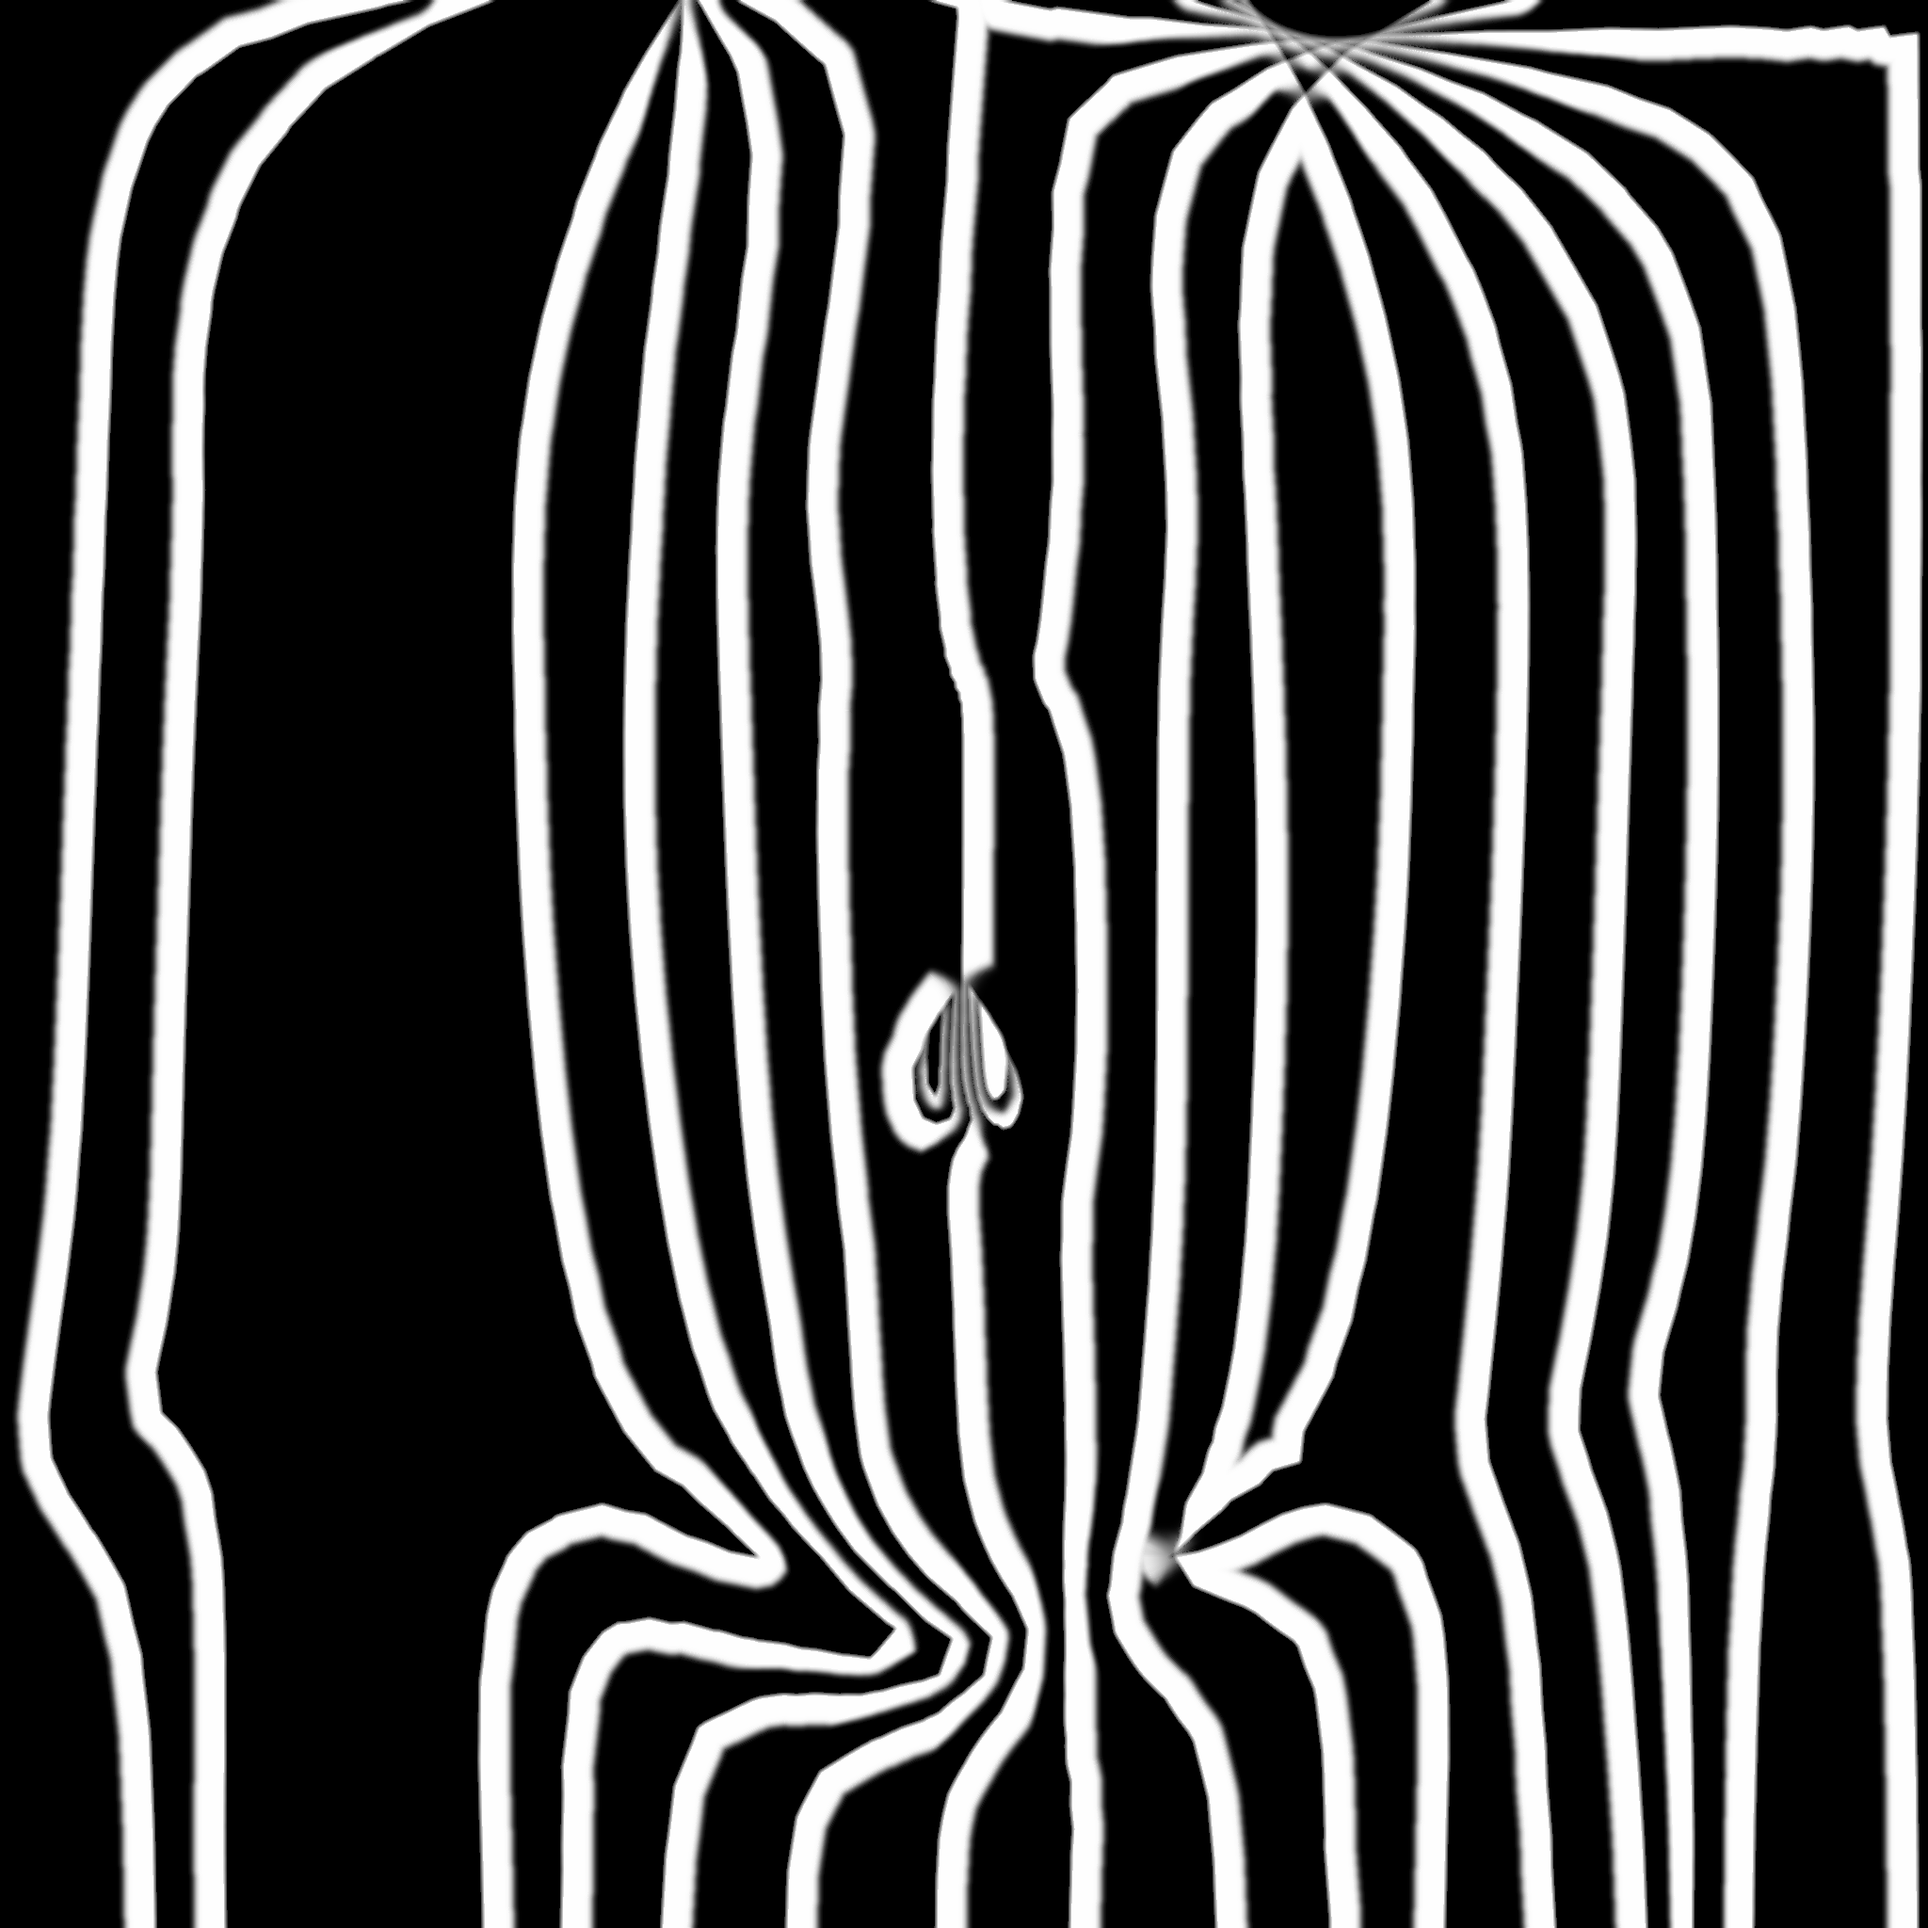
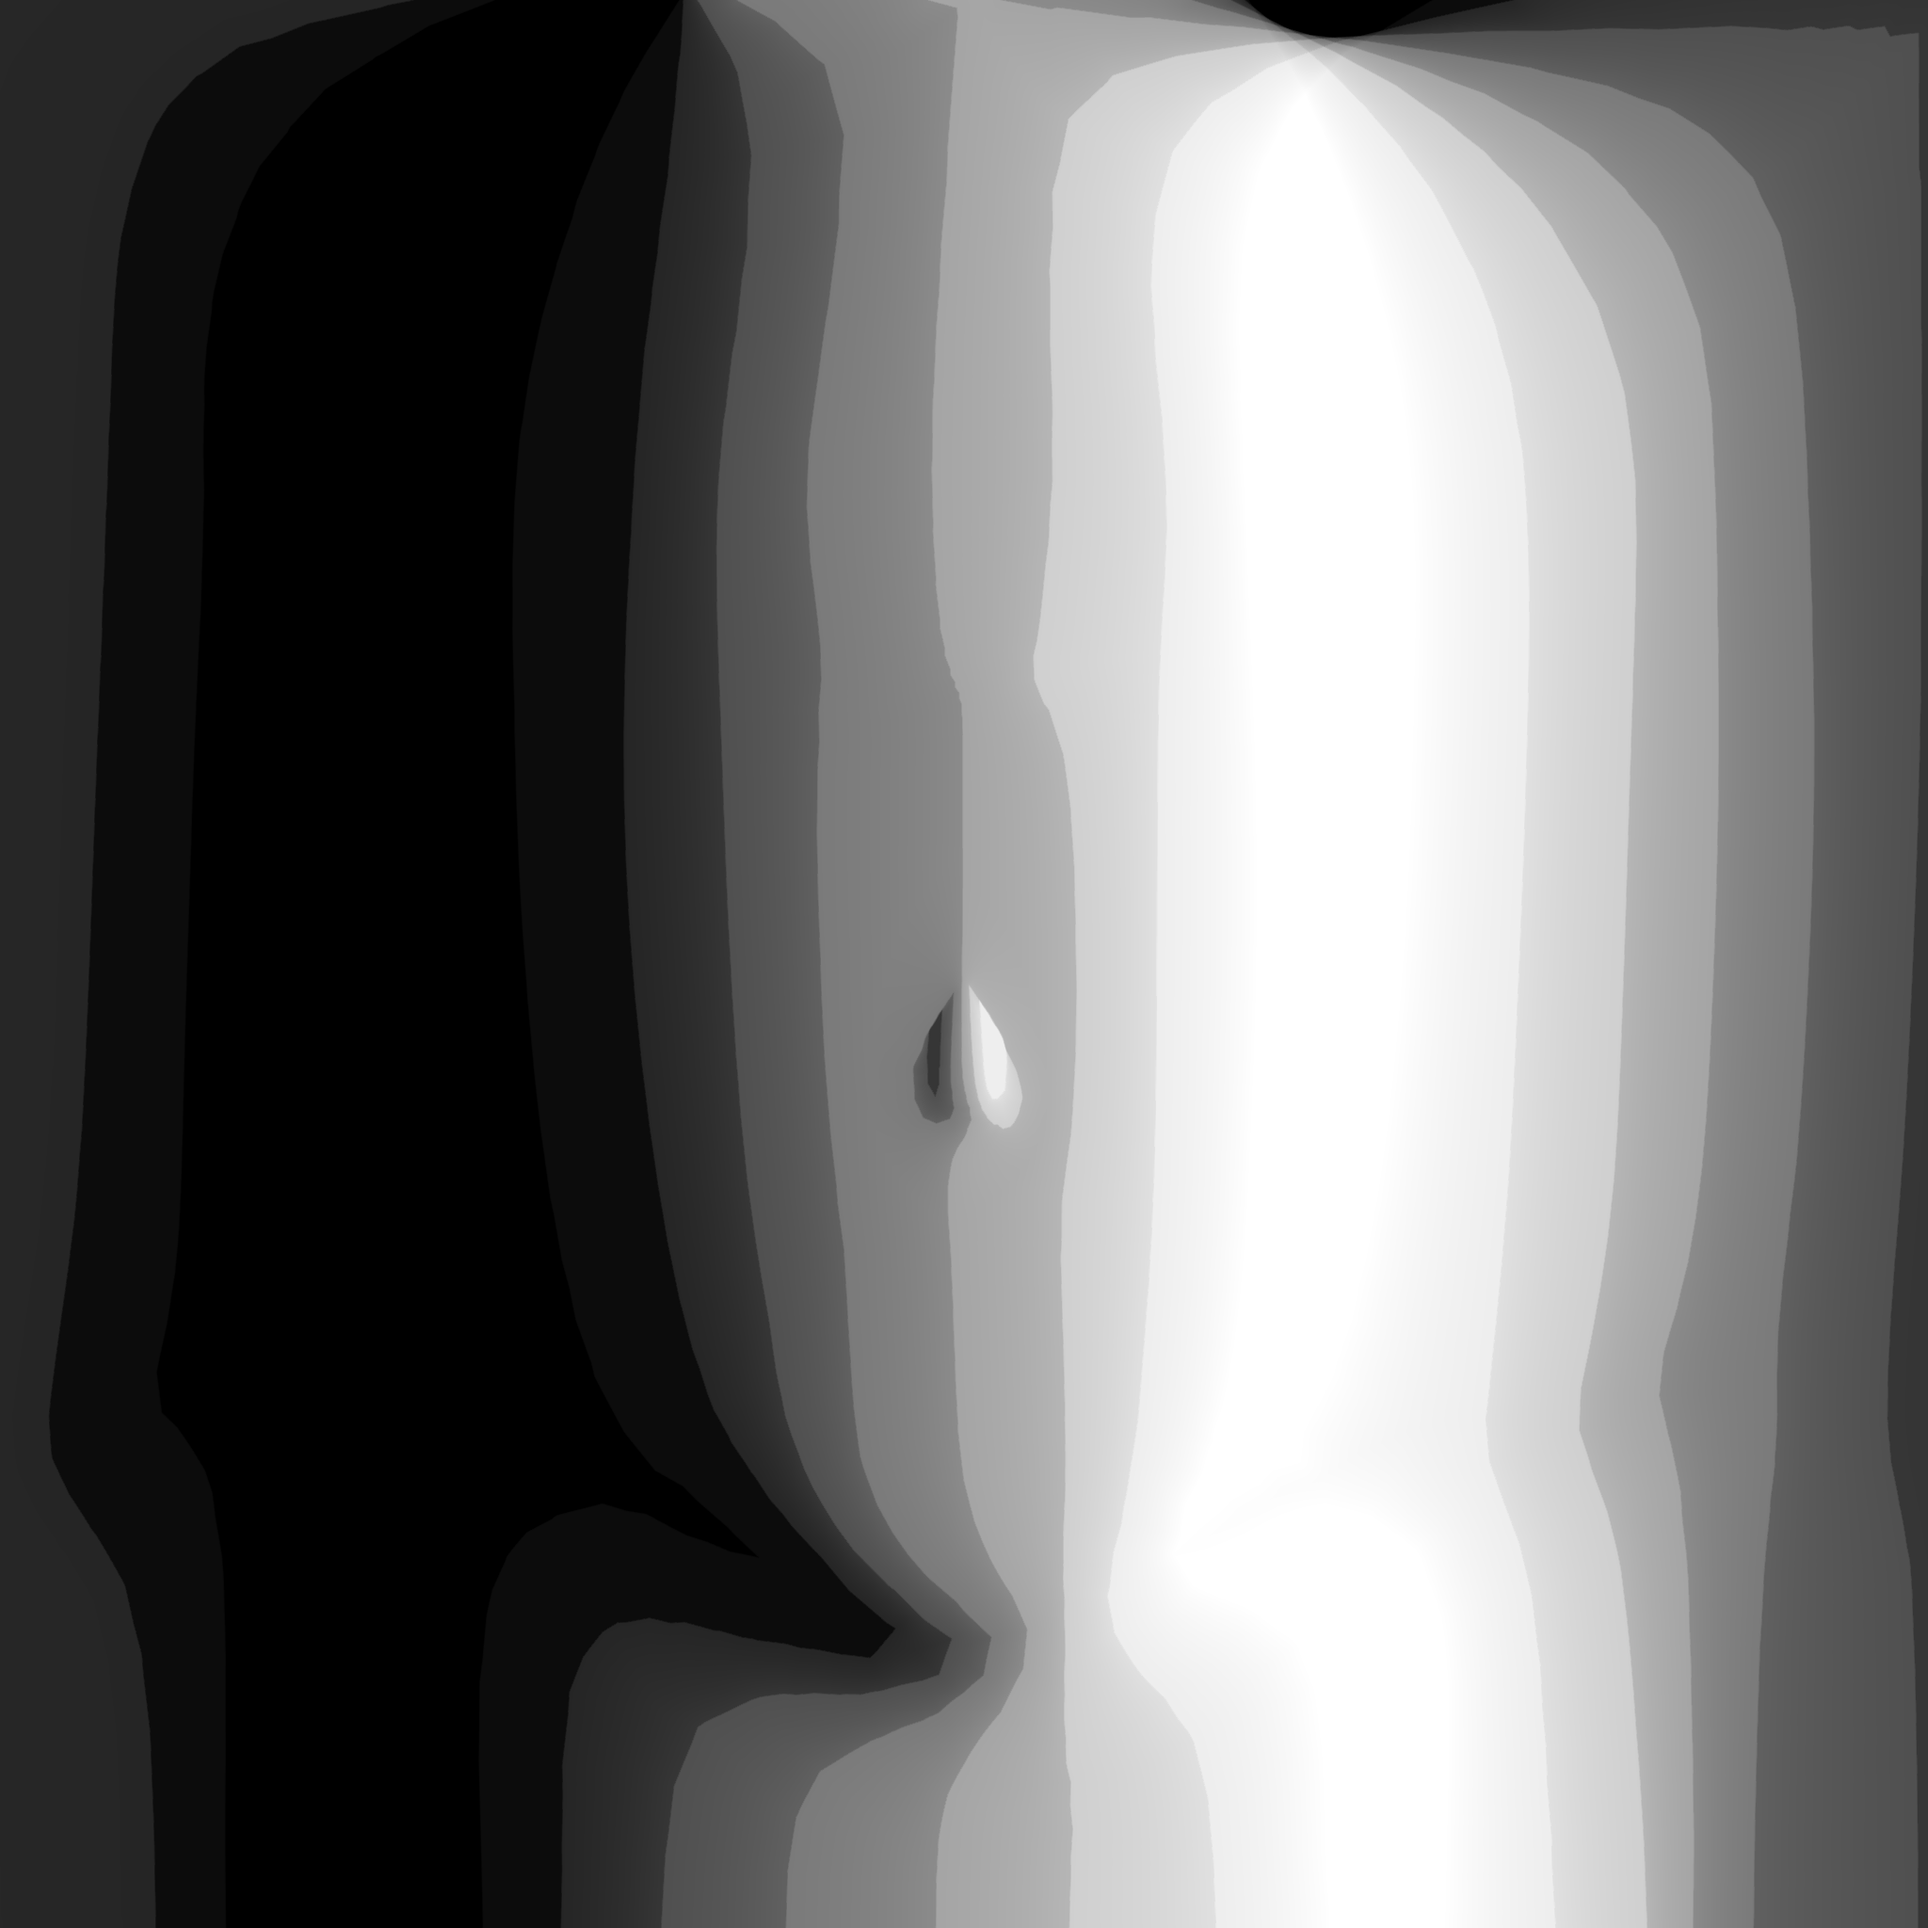
update python

diff --git a/SDF/test_2.py b/SDF/test_2.py
@@ -34,7 +34,7 @@ def create_sdf(img_bin):
     return cv2.distanceTransform(img_bin, cv2.DIST_L2, 5).astype(np.float32)
 
 
-def create_dsdf(imgA, imgB):
+def create_distance_sdf(imgA, imgB):
     binA = create_gray_binary(imgA)
     binB = create_gray_binary(imgB)
     sdfA = create_sdf(binA)
@@ -43,7 +43,7 @@ def create_dsdf(imgA, imgB):
     return sdfA / add
 
 
-def directional_blur_based_on_gradient(img, soft_ksize=11, strong_ksize=31, strong_sigma=8):
+def directional_blur_based_on_gradient(img, soft_ksize=11, strong_ksize=31, soft_sigma=2, strong_sigma=8):
     # Sobelで勾配取得
     grad_x = cv2.Sobel(img, cv2.CV_32F, 1, 0, ksize=3)
     grad_y = cv2.Sobel(img, cv2.CV_32F, 0, 1, ksize=3)
@@ -54,7 +54,7 @@ def directional_blur_based_on_gradient(img, soft_ksize=11, strong_ksize=31, stro
     blur_mask = 1.0 - grad_mask
 
     # 2種類のぼかし
-    blur_soft = cv2.GaussianBlur(img, (soft_ksize, soft_ksize), 2)
+    blur_soft = cv2.GaussianBlur(img, (soft_ksize, soft_ksize), soft_sigma)
     blur_strong = cv2.GaussianBlur(img, (strong_ksize, strong_ksize), strong_sigma)
 
     # 重み付き合成
@@ -62,7 +62,7 @@ def directional_blur_based_on_gradient(img, soft_ksize=11, strong_ksize=31, stro
     return out.astype(np.uint8)
 
 
-def blend_with_sdf_transition_v2(images, blendingtimes=50, alpha=0.08, blur_ksize=(75, 75), blur_sigma=3.0):
+def blend_with_sdf_transition_v2(images, blendingtimes=50, alpha=0.08):
     h, w = images[0].shape
     accumulation = np.zeros((h, w), dtype=np.float32)
 
@@ -70,14 +70,13 @@ def blend_with_sdf_transition_v2(images, blendingtimes=50, alpha=0.08, blur_ksiz
         layer = np.zeros((h, w), dtype=np.float32)
         for t in range(blendingtimes):
             alpha_t = alpha * (1.0 - t / blendingtimes)
-            dsdf = create_dsdf(images[i], images[i + 1])
+            dsdf = create_distance_sdf(images[i], images[i + 1])
             layer = layer * (1 - alpha_t) + dsdf * alpha_t
         accumulation += layer
 
     accumulation /= (len(images) - 1)
     accumulation = cv2.normalize(accumulation, None, 0, 255, cv2.NORM_MINMAX)
-    blurred = directional_blur_based_on_gradient(accumulation)
-    return blurred
+    return accumulation
 
 
 if __name__ == "__main__":
@@ -87,13 +86,20 @@ if __name__ == "__main__":
     images = load_images(asset_folder)
     sample = cv2.imread(sample_path, cv2.IMREAD_GRAYSCALE)
 
-    result = blend_with_sdf_transition_v2(
+    accumulation = blend_with_sdf_transition_v2(
         images,
-        blendingtimes=50,
-        alpha=0.01,
-        blur_ksize=(125, 125),
-        blur_sigma=3.0
+        blendingtimes=2,
+        alpha=0.01
     )
 
-    cv2.imwrite("sdf_combined.png", result)
-    evaluate(result, sample)
+    blurred = directional_blur_based_on_gradient(
+        accumulation,
+        soft_ksize=11,
+        strong_ksize=31,
+        soft_sigma=2,
+        strong_sigma=8
+    )
+
+    cv2.imwrite("sdf_combined.png", blurred)
+    evaluate(blurred, sample)
+

diff --git a/SDF/test3.py b/SDF/test3.py
@@ -36,34 +36,41 @@ def create_sdf(img_bin):
     return cv2.distanceTransform(img_bin, cv2.DIST_L2, 5).astype(np.float32)
 
 
-def blend_with_sdf_transition_v2(images):
+def blend_with_sdf_transition_v4(images):
     h, w = images[0].shape
     accumulation = np.zeros((h, w), dtype=np.float32)
+    count = 0
 
-    for i in range(len(images) - 1):
-        imgA = images[i].astype(np.float32)
-        imgB = images[i + 1].astype(np.float32)
-
+    def sdf_weight(imgA, imgB):
         binA = create_gray_binary(imgA)
         binB = create_gray_binary(imgB)
         sdfA = create_sdf(binA)
         sdfB = create_sdf(255 - binB)
-        dsdf = sdfA / (sdfA + sdfB + 1e-6)
+        return sdfA / (sdfA + sdfB + 1e-6)
 
-        layer = imgA * dsdf + imgB * (1.0 - dsdf)
-        accumulation += layer
+    for i in range(1, len(images) - 1):
+        img_prev = images[i - 1].astype(np.float32)
+        img_curr = images[i].astype(np.float32)
+        img_next = images[i + 1].astype(np.float32)
 
-    accumulation /= len(images)
-    accumulation = cv2.normalize(accumulation, None, 0.0, 1.0, cv2.NORM_MINMAX)
+        # SDFベースの重み（中心基準で左右ブレンド）
+        w_prev = sdf_weight(img_curr, img_prev)
+        w_next = sdf_weight(img_curr, img_next)
+        w_curr = 1.5  # 中心を強調するため直接加算
 
-    center_mask = (accumulation > 0.35) & (accumulation < 0.75)
+        # 重み付き合成（中心主役・左右からフェード的に加算）
+        blend = (
+            img_prev * (1.0 - w_prev) +
+            img_curr * w_curr +
+            img_next * (1.0 - w_next)
+        ) / (w_curr + 1.0 - w_prev + 1.0 - w_next)
 
-    output = np.copy(accumulation)
-    output[center_mask] = accumulation[center_mask]
+        accumulation += blend
+        count += 1
 
-    # 8bit化
-    output *= 255
-    return np.clip(output, 0, 255).astype(np.uint8)
+    accumulation /= count
+    accumulation = cv2.normalize(accumulation, None, 0, 255, cv2.NORM_MINMAX)
+    return accumulation.astype(np.uint8)
 
 
 
@@ -74,7 +81,7 @@ if __name__ == "__main__":
     images = load_images(asset_folder)
     sample = cv2.imread(sample_path, cv2.IMREAD_GRAYSCALE)
 
-    accumulation = blend_with_sdf_transition_v2(images)
+    accumulation = blend_with_sdf_transition_v4(images)
 
     cv2.imwrite("sdf_combined.png", accumulation)
     evaluate(accumulation, sample)
